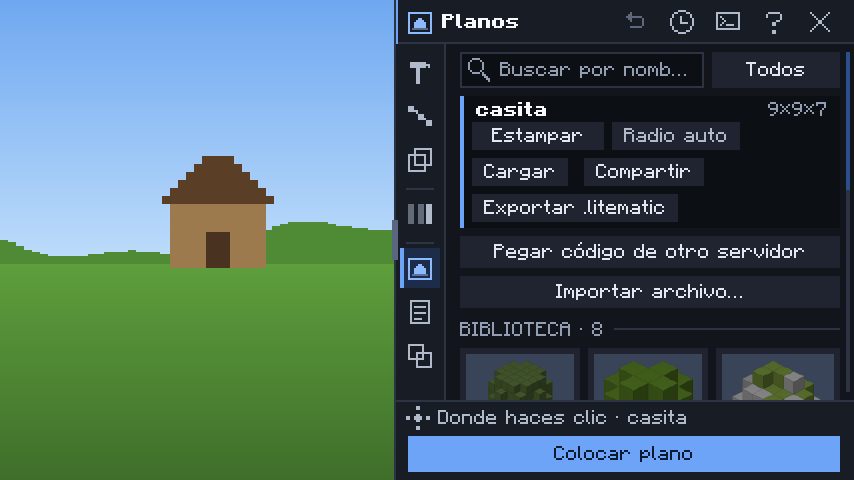
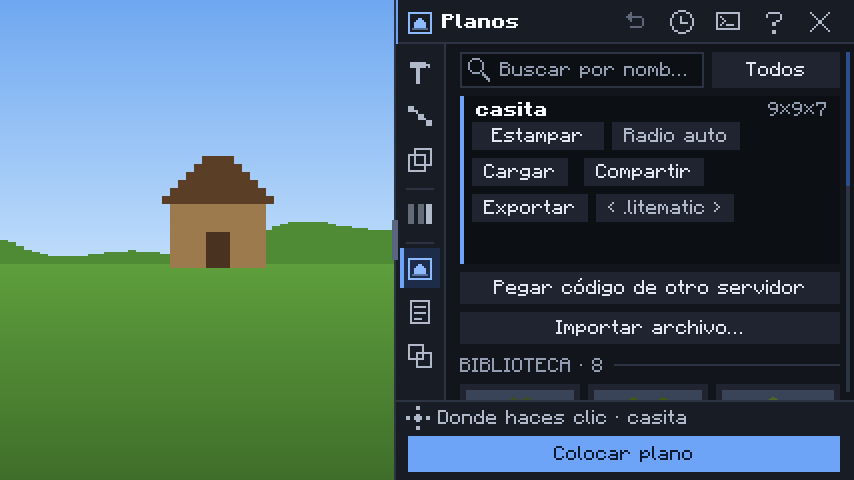
Planos: Exportar y su formato juntos; documentación de las descargas pedidas

Changed region(s): [[0.5176, 0.6562, 0.9742, 0.8438], [0.5176, 0.4062, 1.0, 0.5625], [0.5785, 0.5938, 0.9438, 0.625]]

diff --git a/src/main/java/com/komainu/moxia/studio/ui/BlueprintStage.java b/src/main/java/com/komainu/moxia/studio/ui/BlueprintStage.java
@@ -251,8 +251,7 @@ public final class BlueprintStage {
         int[] worst = {ui.chipWidth(host.tr("gui.komaedit.blueprint.stamp")) + 8, widest,
                 ui.chipWidth(host.tr("gui.komaedit.blueprint.load")),
                 shareable ? ui.chipWidth(host.tr("gui.komaedit.blueprint.share")) : 0,
-                ui.chipWidth(host.tr("gui.komaedit.share.button")), ui.chipWidth(host.tr("gui.komaedit.blueprint.export")),
-                widestFormat(ui, host)};
+                ui.chipWidth(host.tr("gui.komaedit.share.button")), exportWidth(ui, host)};
         int extra = (buttonRows(worst, column.width() - 12) - 1) * BUTTON_PITCH;
         Rect card = column.next((compact ? 30 : 42) + extra);
         ui.fill(card, FIELD);
@@ -300,8 +299,7 @@ public final class BlueprintStage {
         int[] widths = {ui.chipWidth(host.tr("gui.komaedit.blueprint.stamp")) + 8,
                 ui.chipWidth(radiusText), ui.chipWidth(host.tr("gui.komaedit.blueprint.load")),
                 share ? ui.chipWidth(host.tr("gui.komaedit.blueprint.share")) : 0,
-                ui.chipWidth(host.tr("gui.komaedit.share.button")), ui.chipWidth(host.tr("gui.komaedit.blueprint.export")),
-                widestFormat(ui, host)};
+                ui.chipWidth(host.tr("gui.komaedit.share.button")), exportWidth(ui, host)};
         List<Rect> cells = Column.flow(widths, 14, buttons.x(), buttons.y(), buttons.width());
         ui.button(cells.get(0), host.tr("gui.komaedit.blueprint.stamp"),
                         stamp ? StudioUi.Tone.SECONDARY : StudioUi.Tone.DISABLED)
@@ -335,9 +333,13 @@ public final class BlueprintStage {
                     host.shareExport("plano:" + reference);
                     host.status(host.tr("gui.komaedit.status.share.preparing", reference));
                 });
-        // «Exportar» y, al lado, el formato a la vista: ‹ .litematic › cambia con un clic o la rueda.
+        // «Exportar» y, pegado, el formato a la vista: ‹ .litematic › cambia con un clic o la rueda. Van en un solo
+        // hueco del reparto para que nunca queden en filas distintas.
         String format = EXPORT_FORMATS.get(exportFormat);
-        ui.button(cells.get(5), host.tr("gui.komaedit.blueprint.export"), StudioUi.Tone.SECONDARY)
+        int formatWidth = widestFormat(ui, host);
+        Rect exportCell = cells.get(5);
+        ui.button(exportCell.withoutRight(formatWidth, Column.GAP), host.tr("gui.komaedit.blueprint.export"),
+                        StudioUi.Tone.SECONDARY)
                 .tooltip(host.tr("gui.komaedit.blueprint.export") + "\n"
                         + host.tr("gui.komaedit.help.blueprint.export", format))
                 .onClick(() -> {
@@ -346,12 +348,18 @@ public final class BlueprintStage {
                     host.send(command);
                     host.status(host.tr("gui.komaedit.status.blueprint.export", reference, format));
                 });
-        ui.chip(cells.get(6), host.tr("gui.komaedit.blueprint.export_format", format), false, TEXT_SECONDARY)
+        ui.chip(exportCell.rightPart(formatWidth), host.tr("gui.komaedit.blueprint.export_format", format), false,
+                        TEXT_SECONDARY)
                 .tooltip(host.tr("gui.komaedit.blueprint.export_format_name") + "\n"
                         + host.tr("gui.komaedit.help.blueprint.export_format"))
                 .onScroll(direction -> exportFormat = Math.floorMod(exportFormat + direction, EXPORT_FORMATS.size()))
                 .onClick(() -> exportFormat = Math.floorMod(exportFormat + 1, EXPORT_FORMATS.size()))
                 .onReset(() -> exportFormat = 0);
+    }
+
+    /** «Exportar» con su selector de formato al lado, en un solo hueco. */
+    private static int exportWidth(StudioUi ui, StudioHost host) {
+        return ui.chipWidth(host.tr("gui.komaedit.blueprint.export")) + Column.GAP + widestFormat(ui, host);
     }
 
     /** El selector de formato con el nombre más largo, para que la tarjeta no salte al cambiarlo. */

diff --git a/docs/MOD_DOCUMENTATION.md b/docs/MOD_DOCUMENTATION.md
@@ -5598,7 +5598,7 @@ Comportamiento:
 
 **Acceso.**
 
-- **Exportar** un plano, el portapapeles o la selección: `/komaedit blueprint export <plano|portapapeles|seleccion> [formato] [nombre] [-servidor]`, o el botón **Exportar .litematic** de la tarjeta del plano elegido en el Studio.
+- **Exportar** un plano, el portapapeles o la selección: `/komaedit blueprint export <plano|portapapeles|seleccion> [formato] [nombre] [-servidor]`, o el botón **Exportar** de la tarjeta del plano elegido en el Studio, con el formato al lado (`‹ .litematic ›`).
 - **Importar** desde el Studio: **Importar archivo…** (etapa Planos) enseña los esquemas de tu carpeta `schematics`; un clic sube el elegido. Desde el servidor: deja el archivo en `config/komaedit/imports/` y usa `/komaedit blueprint import <archivo> [región]` (sin archivo, la lista con un botón por esquema). `/komaedit share import archivo <archivo>` hace lo mismo.
 - Permisos: exportar un plano pide `komaedit.blueprint.load`; el portapapeles o la selección, `komaedit.blueprint.save`. Importar pide `komaedit.share.import` y `komaedit.blueprint.save`, como un paquete. Escribir en el disco del servidor (`-servidor`) pide `komaedit.share.file`.
 
@@ -5613,9 +5613,9 @@ Comportamiento:
 
 **Exportar.**
 
-- **Formato** (`litematic`, `litematica`, `nbt`, `estructura`, `schem`): detrás de lo que se exporta, en cualquier orden con el nombre. En el Studio, la **rueda** sobre el botón lo cambia (`litematic` → `nbt` → `schem`) y el clic exporta.
+- **Formato** (`litematic`, `litematica`, `nbt`, `estructura`, `schem`): detrás de lo que se exporta, en cualquier orden con el nombre. En el Studio va a la vista junto a **Exportar** (`‹ .litematic ›`): un clic o la rueda lo cambian (`litematic` → `nbt` → `schem`).
 - **Nombre**: el del plano, `portapapeles` o `seleccion` si no se escribe otro. Se limpia como un nombre de plano (`Puente Norte` no vale: una palabra; `puente_norte` sí).
-- **Adónde**: si tu cliente tiene KomaEdit, el archivo **baja a tu carpeta `schematics`** (la de Litematica: `.minecraft/schematics`), en trozos de 16 KiB y como mucho 32 KiB por tick, sin pisar uno que ya exista (`torre.litematic`, `torre-2.litematic`…). Sin KomaEdit en el cliente, o con `-servidor`, se escribe en `config/komaedit/exports/` del servidor (hace falta `komaedit.share.file` y `allowFiles` en `share.json`). El chat dice cuándo ha llegado y dónde está.
+- **Adónde**: si tu cliente tiene KomaEdit, el archivo **baja a tu carpeta `schematics`** (la de Litematica: `.minecraft/schematics`), en trozos de 16 KiB y como mucho 32 KiB por tick, sin pisar uno que ya exista (`torre.litematic`, `torre-2.litematic`…). El cliente solo guarda lo que tú pediste: cada exportación (con el botón del Studio o escribiendo la orden) deja bajar **un** archivo durante 2 minutos, y lo que llega sin pedirlo se descarta sin escribir nada ni avisar. Sin KomaEdit en el cliente, o con `-servidor`, se escribe en `config/komaedit/exports/` del servidor (hace falta `komaedit.share.file` y `allowFiles` en `share.json`). El chat dice cuándo ha llegado y dónde está.
 - **Lo que lleva**: los bloques con sus estados, los datos de bloque (cofres con su contenido, carteles con su texto…) y las entidades. El portapapeles sale con su giro (`//rotate`, `//flip`) aplicado, como `//schem save`; la selección, con sus entidades y el origen en su esquina.
 - **Origen**: en un `.litematic` la región va desplazada respecto al origen como en el portapapeles, así que Litematica la coloca como haría `//paste`. Una estructura `.nbt` siempre tiene el origen en su esquina.
 - **Miniatura** de Litematica (`PreviewImageData`): la del plano, o una isométrica de 140×140 pintada como las de la biblioteca para el portapapeles y la selección.
@@ -5632,7 +5632,7 @@ Comportamiento:
 - Los ticks pendientes (`PendingBlockTicks`, `PendingFluidTicks`) no se importan: el portapapeles de WorldEdit no los guarda.
 - Cada archivo cuenta como una importación para `importsPerHour` de `share.json`; uno que se sube desde el Studio cuenta desde que empieza a subir, aunque luego se cancele.
 
-**Lo que se comprueba.** Los archivos llegan de otros jugadores, así que antes de importar nada se miran el tamaño del archivo y lo que ocupa al descomprimirlo, el anidamiento de sus datos, el tamaño de cada región y de la caja entera, la paleta, el número de bloques con datos y de entidades, y que los bloques cuadren con su tamaño y con su paleta. Lo que no pasa se rechaza con un mensaje que dice qué falla («Los bloques de la región «casa» no cuadran con su tamaño», «El esquema mide 5000 bloques de lado; el máximo es 4096»…). Solo se lee de `config/komaedit/imports/` y de lo que sube el propio jugador, que llega en trozos con su huella y a un ritmo máximo; en el cliente solo se escribe en `schematics`. Después cuentan los límites de `blueprints.json` y de `share.json` de siempre.
+**Lo que se comprueba.** Los archivos llegan de otros jugadores, así que antes de importar nada se miran el tamaño del archivo y lo que ocupa al descomprimirlo, el anidamiento de sus datos, el tamaño de cada región y de la caja entera, la paleta, el número de bloques con datos y de entidades, y que los bloques cuadren con su tamaño y con su paleta. Lo que no pasa se rechaza con un mensaje que dice qué falla («Los bloques de la región «casa» no cuadran con su tamaño», «El esquema mide 5000 bloques de lado; el máximo es 4096»…). Solo se lee de `config/komaedit/imports/` y de lo que sube el propio jugador, que llega en trozos con su huella y a un ritmo máximo; el servidor junta pocas subidas a la vez entre todos los jugadores y con un tope de memoria. En el cliente solo se escribe en `schematics` y solo lo que el jugador pidió. Después cuentan los límites de `blueprints.json` y de `share.json` de siempre.
 
 **En WorldEdit.** Los `.litematic` y las `.nbt` de la carpeta de schematics de WorldEdit (`config/worldedit/schematics`) valen también en `//schem load`, en `//schem save <nombre> litematic` (o `nbt`), en la estructura `Schematic(N:…)` de la colocación y en la máscara `#schemblocks`.
 
@@ -5653,9 +5653,9 @@ La etapa **Planos** (`5`) es la biblioteca con miniaturas. El plano elegido se c
 - **Buscador** (clic o `/` en la etapa): lo mismo que `search`. `Esc` lo borra y `Intro` elige el primero. A su lado, **Mostrar**: Todos, Míos o Servidor (un clic o la rueda).
 - **Etiquetas:** una fila de pastillas con las más usadas que caben: un clic filtra por la etiqueta y otro la quita.
 - **Plano elegido**, en una tarjeta de alto fijo encima de la cuadrícula (así no salta al elegir; si sus botones no caben en una fila, la tarjeta tiene dos): nombre, tamaño, bloques y autor, y los botones **Estampar** (el pincel en la mano con ese plano), **Radio** (auto, o el del pincel, con un clic o la rueda), **Cargar** (al portapapeles), **Al servidor** (lo copia a los planos del servidor; en los tuyos, si puedes) y **Compartir** (un código para llevarlo a otro servidor, ver [Compartir entre servidores](#compartir-entre-servidores)). Sin plano elegido y con una sola etiqueta activa sale **Estampar #etiqueta**, para estamparla entera. Sin permiso, el botón sale apagado y lo dice al pasar el ratón.
-- **Exportar .litematic**, en la tarjeta del plano elegido: lo baja a tu carpeta `schematics` (la de Litematica). La rueda cambia el formato (`.litematic`, `.nbt`, `.schem`); el botón dice cuál saldrá.
+- **Exportar** y, al lado, el formato (`‹ .litematic ›`), en la tarjeta del plano elegido: lo baja a tu carpeta `schematics` (la de Litematica). Un clic o la rueda sobre el formato lo cambian (`.litematic`, `.nbt`, `.schem`).
 - **Pegar código de otro servidor**, debajo de la tarjeta: importa lo que tengas copiado (planos, paletas, presets…), enseñando antes qué trae.
-- **Importar archivo…**, debajo: abre la lista de los esquemas de tu carpeta `schematics` (`.litematic`, `.nbt`, `.schem` y `.schematic`, hasta tres carpetas por debajo), los más nuevos primero, con su tamaño. Un clic sube el archivo y sale la ventana **Importar** con lo que trae. En un servidor sin esta versión de KomaEdit el botón sale apagado y dice cómo hacerlo con la carpeta `config/komaedit/imports`.
+- **Importar archivo…**, debajo: abre la lista **De tu carpeta schematics** con sus esquemas (`.litematic`, `.nbt`, `.schem` y `.schematic`, hasta tres carpetas por debajo), los más nuevos primero, con su tamaño. Un clic sube el archivo y sale la ventana **Importar** con lo que trae. Si la carpeta está vacía, la lista dice dónde está (`.minecraft/schematics`, donde guarda Litematica) y qué dejar ahí. En un servidor sin esta versión de KomaEdit el botón sale apagado y dice cómo hacerlo con la carpeta `config/komaedit/imports`.
 
 ![Importar archivo en la etapa Planos](renders/studio/1080p_gui3_planos_importar_es.png)
 - **Cuadrícula** de miniaturas con el nombre (en dos líneas, partido tras `_` o `-`, si no cabe en una) y el tamaño debajo, tantas columnas como quepan (como poco dos); los compartidos llevan una estrella dorada. Un clic elige el plano.

diff --git a/CHANGELOG.md b/CHANGELOG.md
@@ -6,16 +6,24 @@
 
 La biblioteca de planos y Compartir entre servidores solo leían y escribían `.schem` y `.schematic`. Ahora entran y salen también los `.litematic` de Litematica y las estructuras `.nbt` de Minecraft, leídos y escritos por KomaEdit (sin depender de Litematica ni usar su código).
 
-- **Exportar** un plano, el portapapeles o la selección: `/komaedit blueprint export <plano|portapapeles|seleccion> [litematic|nbt|schem] [nombre] [-servidor]`, o **Exportar .litematic** en la tarjeta del plano (la rueda cambia el formato). Si el cliente tiene KomaEdit, el archivo baja a su carpeta `schematics`, la de Litematica, sin pisar otro. Si no, o con `-servidor`, va a `config/komaedit/exports`. El `.litematic` sale en la versión 7 del formato, con nombre, autor, descripción, tamaño, bloques, fechas y miniatura.
-- **Importar** un `.litematic`, `.nbt`, `.schem` o `.schematic`: desde el Studio (**Importar archivo…** lista tu carpeta `schematics` y sube el elegido), con `/komaedit blueprint import <archivo> [región]` desde `config/komaedit/imports` o con `share import archivo`. Antes de guardar enseña lo que trae y lo que choca, como un paquete.
+- **Exportar** un plano, el portapapeles o la selección: `/komaedit blueprint export <plano|portapapeles|seleccion> [litematic|nbt|schem] [nombre] [-servidor]`, o **Exportar** en la tarjeta del plano, con el formato a la vista al lado (`‹ .litematic ›`, clic o rueda para cambiarlo). Si el cliente tiene KomaEdit, el archivo baja a su carpeta `schematics`, la de Litematica, sin pisar otro. Si no, o con `-servidor`, va a `config/komaedit/exports`. El `.litematic` sale en la versión 7 del formato, con nombre, autor, descripción, tamaño, bloques, fechas y miniatura.
+- **Importar** un `.litematic`, `.nbt`, `.schem` o `.schematic`: desde el Studio (**Importar archivo…** lista «De tu carpeta schematics» y sube el elegido; vacía, dice dónde dejar los archivos), con `/komaedit blueprint import <archivo> [región]` desde `config/komaedit/imports` o con `share import archivo`. Antes de guardar enseña lo que trae y lo que choca, como un paquete.
 - **Varias regiones** de un `.litematic` se juntan en un plano, cada una en su sitio; con `<región>` se importa solo una. Las regiones con tamaño negativo se colocan donde tocan.
 - **Versiones anteriores** pasan por el DataFixer de Minecraft antes de revisarse (estados, datos de bloque y entidades). Los bloques de mods que faltan se cambian por el más parecido y se avisa. Los cofres, carteles y entidades conservan sus datos con las reglas de los planos de otros servidores.
-- **Seguridad:** al leer se cortan el tamaño descomprimido, el anidamiento, las regiones, la paleta, los datos de bloque y las entidades antes de reservar memoria. Un archivo roto o hecho a mala idea se rechaza con un mensaje claro. Solo se lee de `config/komaedit/imports` y de lo que sube el jugador, y en el cliente solo se escribe en `schematics`. Los carteles importados pierden además las líneas de antes de 1.20, que el DataFixer deja con sus clics.
+- **Seguridad:**
+  - Al leer se cortan el tamaño descomprimido, el anidamiento, las regiones, la paleta, los datos de bloque y las entidades antes de reservar memoria. Un archivo roto o hecho a mala idea se rechaza con un mensaje claro.
+  - Solo se lee de `config/komaedit/imports` y de lo que sube el jugador. Una subida cuenta como importación desde el primer trozo, tiene un ritmo máximo, y el servidor junta pocas a la vez entre todos los jugadores, con un tope de memoria.
+  - El cliente solo guarda en `schematics` lo que el jugador pidió: cada exportación (el botón o la orden escrita) deja bajar un archivo durante 2 minutos, y lo que llega sin pedirlo se descarta sin escribir nada ni avisar.
+  - Los carteles importados pierden además las líneas de antes de 1.20, que el DataFixer deja con sus clics.
 - **WorldEdit** entiende también los `.litematic` y las `.nbt` de su carpeta: `//schem load`, `//schem save … litematic`, `Schematic(N:…)` y `#schemblocks`.
 - La carpeta `config/komaedit/imports` admite nombres con espacios, tildes y paréntesis, y sin extensión prueba las de los esquemas.
-- **Código:** paquete `schematic` (Java puro: `SchematicData`, `LitematicCodec`, `PackedStates`, `StructureCodec`, `SpongeCodec`, `SchematicNbt`, `SchematicLimits`, `SchematicUpgrade`, `SchematicImport`), `share.SchematicPacks`, `blueprint.BlueprintExport`, `FileChunks`, `BlueprintTransfers`, `worldedit.KomaClipboardFormats` y `client.blueprint.ClientSchematicFiles`.
-- **Pruebas:** `PackedStatesTest` (entradas que cruzan longs comparadas con una referencia bit a bit; paletas de 1, 2, 3, 4, 17 y 300), `LitematicCodecTest`, `StructureCodecTest`, `SpongeCodecTest` (ida y vuelta, tamaños negativos, varias regiones, archivos rotos y bombas), `SchematicUpgradeTest` (con el DataFixer de verdad), `SchematicPacksTest` (un `.litematic` de 1.19.4 con bloques de órdenes, carteles con clics y libros), `FileChunksTest`, `BlueprintExportTest` y casos nuevos en `ShareFilesTest` y `StudioShareTest`. Maqueta nueva: `1080p_gui3_planos_importar_es.png`.
+- **Código:** paquete `schematic` (Java puro: `SchematicData`, `LitematicCodec`, `PackedStates`, `StructureCodec`, `SpongeCodec`, `SchematicNbt`, `SchematicLimits`, `SchematicUpgrade`, `SchematicImport`), `share.SchematicPacks`, `blueprint.BlueprintExport`, `FileChunks` (con su `Pool`), `DownloadPermits`, `DownloadInbox`, `BlueprintTransfers`, `worldedit.KomaClipboardFormats` y `client.blueprint.ClientSchematicFiles`.
+- **Pruebas:** `PackedStatesTest` (entradas que cruzan longs comparadas con una referencia bit a bit; paletas de 1, 2, 3, 4, 17 y 300), `LitematicCodecTest`, `StructureCodecTest`, `SpongeCodecTest` (ida y vuelta, tamaños negativos, varias regiones, archivos rotos y bombas), `SchematicUpgradeTest` (con el DataFixer de verdad), `SchematicPacksTest` (un `.litematic` de 1.19.4 con bloques de órdenes, carteles con clics y libros), `FileChunksTest` (con el tope común de envíos y bytes en vuelo), `DownloadInboxTest` (lo no pedido no se junta; una descarga por exportación; caducidad), `BlueprintExportTest` y casos nuevos en `ShareFilesTest` y `StudioShareTest`. Maqueta nueva: `1080p_gui3_planos_importar_es.png`.
 - Nada probado aún dentro de Minecraft ni con Litematica abierto.
+
+### Maquetas del Studio
+
+- La escena del fantasma en vivo (`1080p_gui3_fantasma_vivo_es.png`) buscaba en el pie un texto con las medidas («Árbol roble · giro 0° · 7×19×7») que el pie ya no enseña (van en su tooltip). Fallaba y cortaba las maquetas que van detrás. Ahora busca lo que dice el pie.
 
 ### Los botones del Studio ya no echan por spam
 

diff --git a/docs/ARCHITECTURE.md b/docs/ARCHITECTURE.md
@@ -104,7 +104,7 @@ Paquete `blueprint` (y `client.blueprint`, `studio.ui.BlueprintStage`).
 1. **Guardar.** `BlueprintService.save` toma el portapapeles en el hilo del servidor y hace el resto en su propio hilo («KomaEdit planos»), como `//schem save`: aplica el giro del portapapeles, escribe el esquema `sponge.3`, monta la rejilla de colores (`ThumbnailColors` sobre `BlockColorCatalogs`) y pinta la miniatura. `BlueprintLibrary` (Java puro) guarda el esquema, el PNG y el JSON con `AtomicStorage`, el JSON el último, y comprueba los `BlueprintLimits` de `blueprints.json`.
 2. **Usar.** `load` lee el esquema en ese hilo y lo deja en la sesión de WorldEdit desde el hilo del servidor. La colocación trata los planos como una estructura más (`StructureSpec.Type.BLUEPRINT`): `PlacementService.resolve` pide los esquemas a `BlueprintService.structures` (con caché por archivo y fecha) y sigue el camino de `Clipboard` y `Schematic`, así que `place`, `scatter`, `array`, sus pinceles y la vista previa `-v` funcionan sin más.
 3. **Estampar.** `BlueprintStamps` resuelve la lista en cada clic y prepara las `BlueprintTemplate` (bloques con el origen en el centro de la base y su `StampShape`); `StampOperation` es una `BrushOperation`: captura el terreno y, en el worker, `StampPlanner` (puro) elige puntos de Poisson, probabilidad, plano por peso, giro, volteo y altura sobre `BrushWorld`, y escribe con las matrices enteras de `StampPlanner.Stamp` (también para el estado de los bloques).
-4. **Otros formatos.** Importar un `.litematic`, `.nbt` o `.schem` (de `config/komaedit/imports` o subido desde el Studio, `BlueprintPayloads.Upload`) lo envuelve en un paquete de un plano (`share.SchematicPacks`) y sigue el camino de los paquetes: `BlueprintKind.check` lo convierte con `SchematicImport` (lee con topes, DataFixer, `sponge.3`) y después pasa por `SchematicSanitizer`. Exportar (`BlueprintExport`) lee el portapapeles o la selección en el hilo del servidor, convierte en el de los planos y manda el archivo al cliente en trozos (`FileChunks`, `BlueprintTransfers`, `BlueprintPayloads.Download`), que lo guarda en `schematics` (`client.blueprint.ClientSchematicFiles`) sin pisar nada.
+4. **Otros formatos.** Importar un `.litematic`, `.nbt` o `.schem` (de `config/komaedit/imports` o subido desde el Studio, `BlueprintPayloads.Upload`) lo envuelve en un paquete de un plano (`share.SchematicPacks`) y sigue el camino de los paquetes: `BlueprintKind.check` lo convierte con `SchematicImport` (lee con topes, DataFixer, `sponge.3`) y después pasa por `SchematicSanitizer`. Exportar (`BlueprintExport`) lee el portapapeles o la selección en el hilo del servidor, convierte en el de los planos y manda el archivo al cliente en trozos (`FileChunks`, `BlueprintTransfers`, `BlueprintPayloads.Download`). El cliente solo junta lo que pidió (`DownloadInbox` con `DownloadPermits`: un archivo por exportación, del botón del Studio o de la orden escrita, que ve `ClientSendMessageEvents`) y lo guarda en `schematics` (`client.blueprint.ClientSchematicFiles`) sin pisar nada. Las subidas de todos los jugadores comparten un `FileChunks.Pool` con tope de envíos a medias y de bytes.
 5. **Studio.** El cliente pide el catálogo (`BlueprintPayloads.Request`) al entrar en la etapa; el servidor responde con `Catalog` y, para las huellas que el cliente no tiene, manda la miniatura en `Thumbnail` de 4 KiB con un presupuesto por tick (`ThumbnailChunks.Queue`). `ClientBlueprintCatalog` la junta (`ThumbnailChunks.Assembler`, que comprueba el SHA-256) y la registra como textura por su huella.
 
 ## Paquetes compartidos
